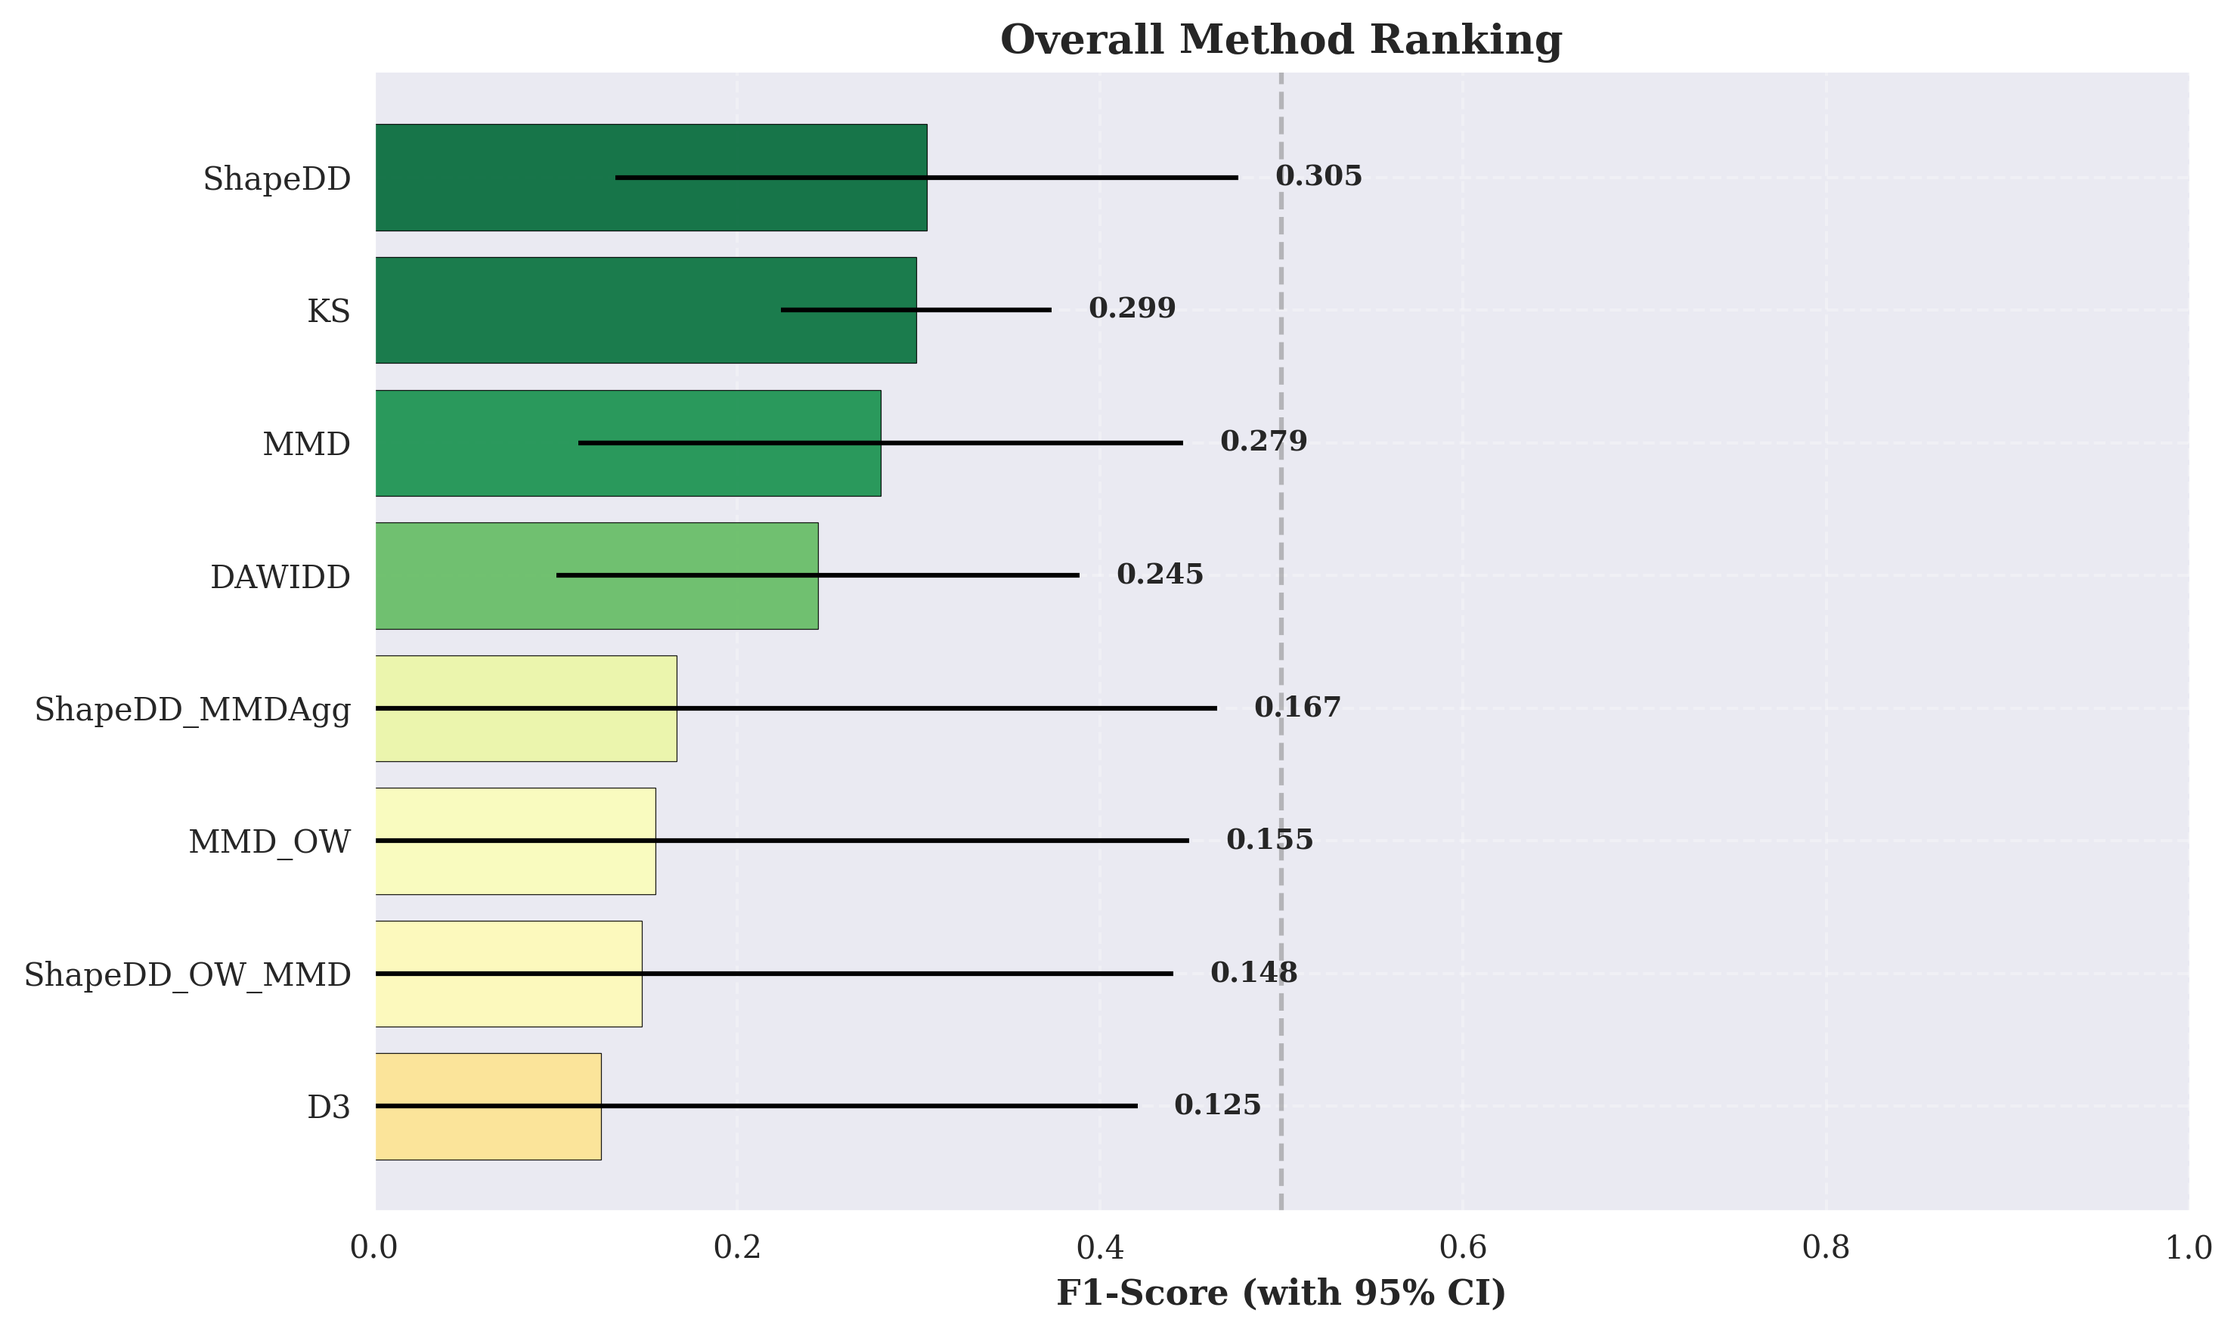
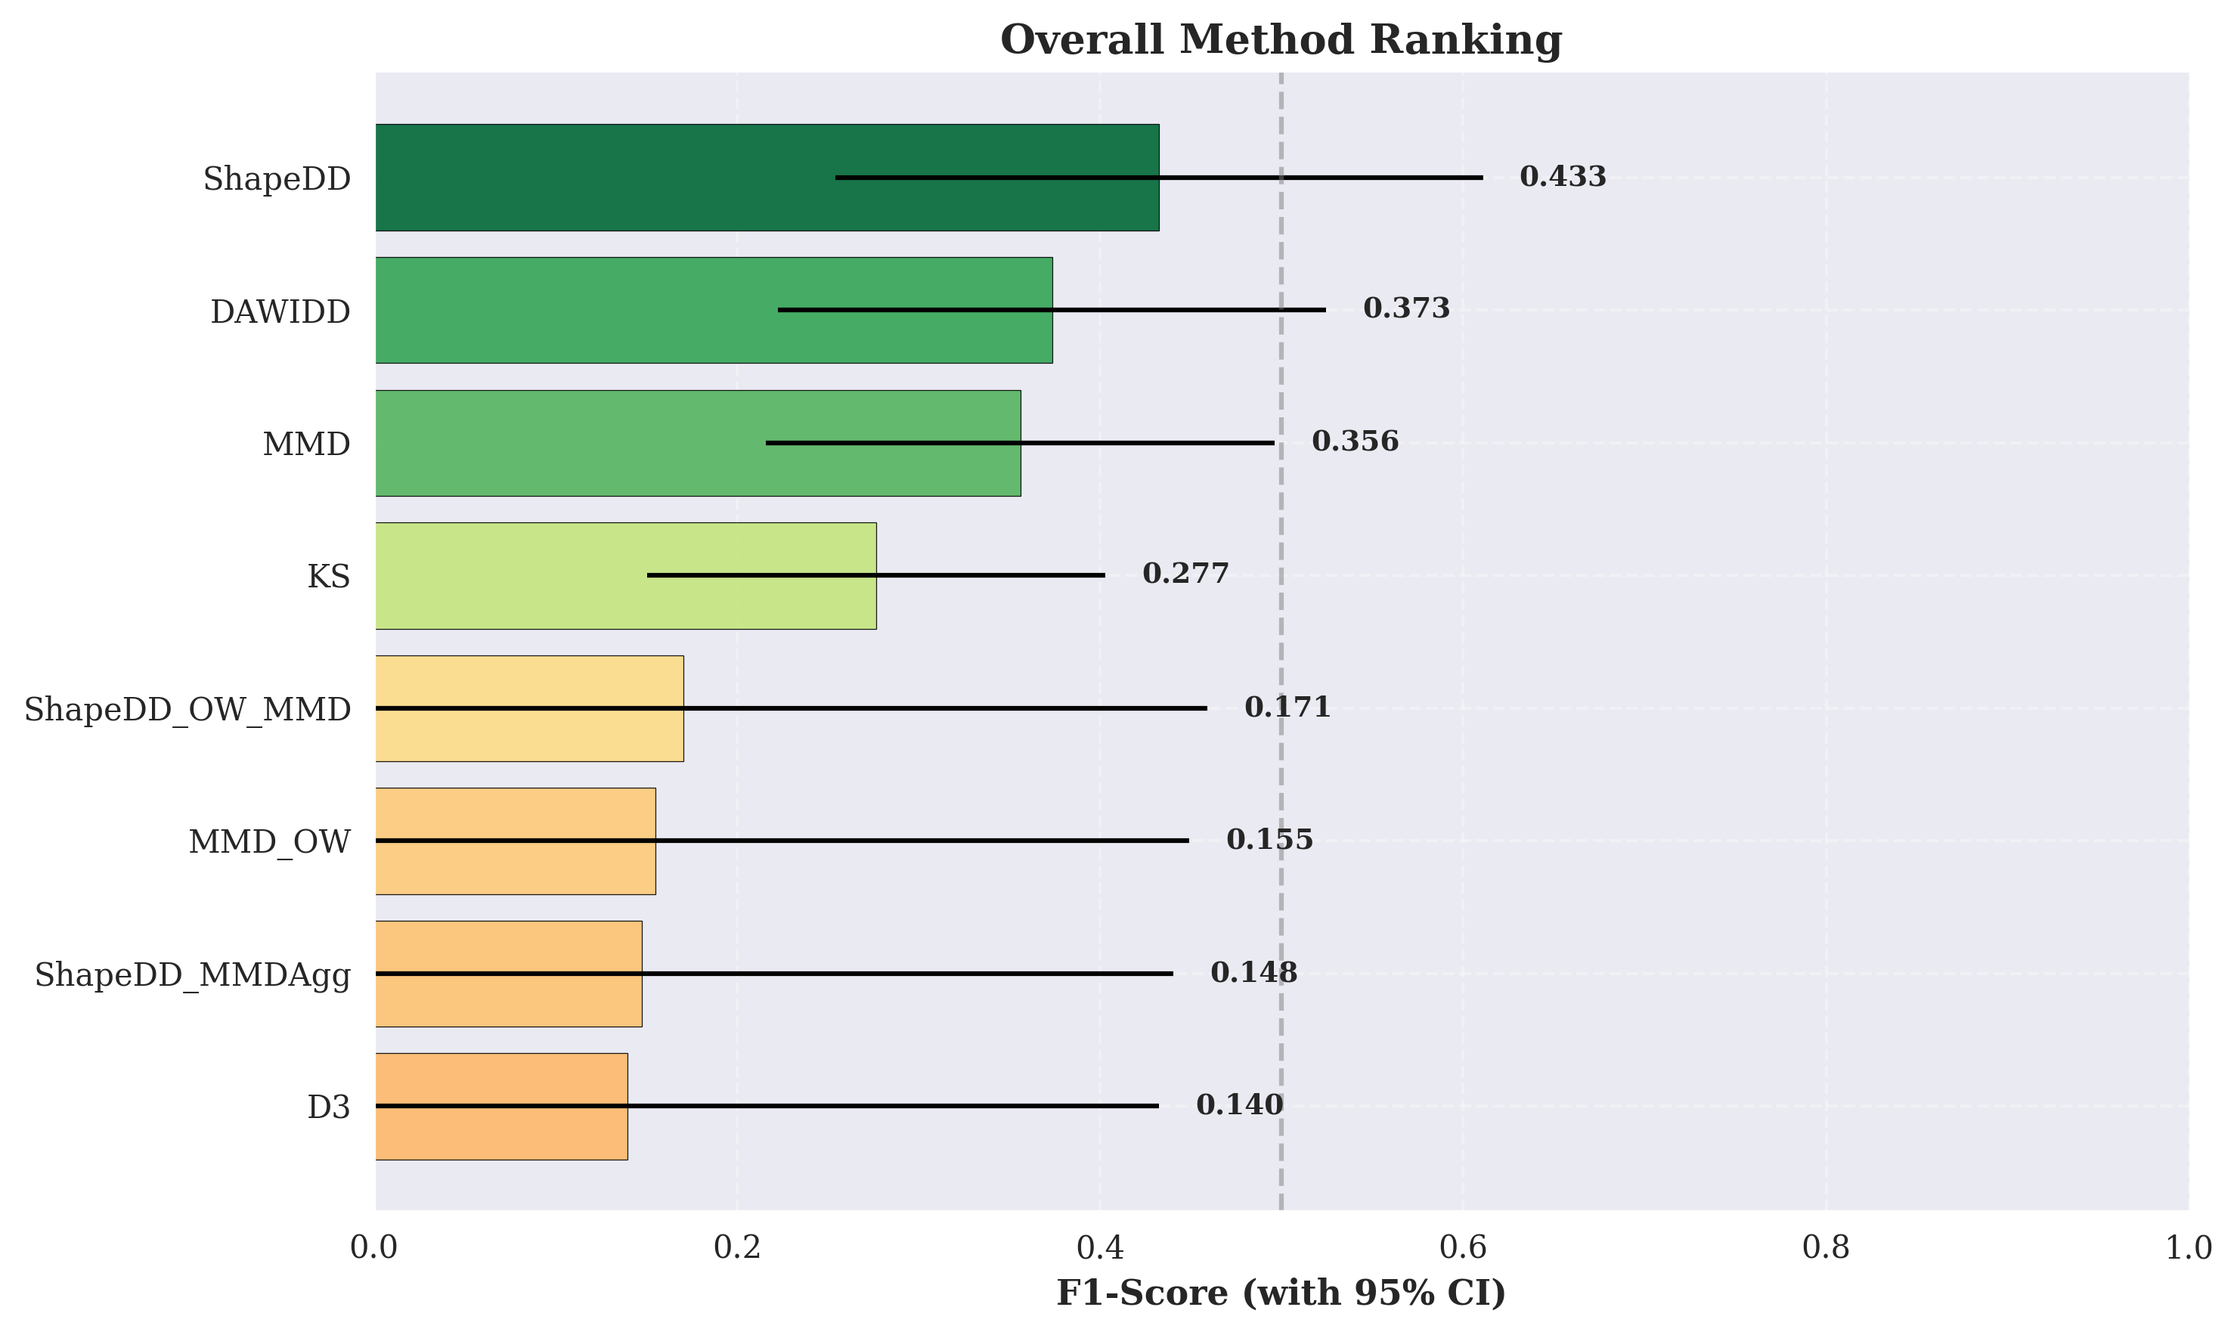
Unified the figure and table output directories to experiments/drift_detection_benchmark/publication_figures/ for consistency

diff --git a/report/latex/chapters/04_experiments_evaluation.tex b/report/latex/chapters/04_experiments_evaluation.tex
@@ -122,7 +122,7 @@ Bảng~\ref{tab:comprehensive_performance} trình bày kết quả trung bình c
 % Source: experiments/drift_detection_benchmark/publication_figures/table_I_comprehensive_performance.tex
 % To regenerate: Run main.py in drift_detection_benchmark, then copy output here
 % =============================================================================
-\input{../../experiments/drift_detection_benchmark/publication_figures/table_I_comprehensive_performance.tex}
+\input{../../../experiments/drift_detection_benchmark/publication_figures/table_I_comprehensive_performance.tex}
 
 % =============================================================================
 % AUTO-GENERATED FIGURE: Overall Method Ranking
@@ -131,7 +131,7 @@ Bảng~\ref{tab:comprehensive_performance} trình bày kết quả trung bình c
 % =============================================================================
 \begin{figure}[h]
 \centering
-\includegraphics[width=0.85\textwidth]{../../experiments/drift_detection_benchmark/publication_figures/figure_1_overall_ranking.png}
+\includegraphics[width=0.85\textwidth]{../../../experiments/drift_detection_benchmark/publication_figures/figure_1_overall_ranking.png}
 \caption{Xếp hạng tổng thể của các phương pháp phát hiện drift dựa trên F1-Score với khoảng tin cậy 95\%. Các phương pháp được sắp xếp từ thấp đến cao.}
 \label{fig:overall_ranking}
 \end{figure}
@@ -142,7 +142,7 @@ Bảng~\ref{tab:comprehensive_performance} trình bày kết quả trung bình c
 % =============================================================================
 \begin{figure}[h]
 \centering
-\includegraphics[width=0.85\textwidth]{../../experiments/drift_detection_benchmark/publication_figures/critical_difference_f1.png}
+\includegraphics[width=0.85\textwidth]{../../../experiments/drift_detection_benchmark/publication_figures/critical_difference_f1.png}
 \caption{Critical Difference diagram sử dụng Nemenyi post-hoc test. Các phương pháp được nối với nhau bằng đường ngang không có sự khác biệt thống kê đáng kể (p \textgreater{} 0.05). CD = Critical Difference tại mức ý nghĩa $\alpha = 0.05$.}
 \label{fig:critical_difference}
 \end{figure}
@@ -165,7 +165,7 @@ Bảng~\ref{tab:comprehensive_performance} trình bày kết quả trung bình c
 % =============================================================================
 \begin{figure}[h]
 \centering
-\includegraphics[width=0.95\textwidth]{../../experiments/drift_detection_benchmark/publication_figures/figure_2_sudden_drift.png}
+\includegraphics[width=0.95\textwidth]{../../../experiments/drift_detection_benchmark/publication_figures/figure_2_sudden_drift.png}
 \caption{Heatmap F1-Score trên các dataset Sudden Drift (SEA, STAGGER, Hyperplane, LED). Giá trị cao hơn (màu xanh lá) biểu thị hiệu suất tốt hơn. Các phương pháp được sắp xếp theo F1-Score trung bình giảm dần.}
 \label{fig:sudden_drift}
 \end{figure}
@@ -176,7 +176,7 @@ Bảng~\ref{tab:comprehensive_performance} trình bày kết quả trung bình c
 % =============================================================================
 \begin{figure}[h]
 \centering
-\includegraphics[width=0.85\textwidth]{../../experiments/drift_detection_benchmark/publication_figures/figure_3_gradual_incremental_drift.png}
+\includegraphics[width=0.85\textwidth]{../../../experiments/drift_detection_benchmark/publication_figures/figure_3_gradual_incremental_drift.png}
 \caption{Heatmap F1-Score trên các dataset Gradual và Incremental Drift (sea\_gradual, rbf\_slow). Đây là các loại drift thách thức hơn cho phương pháp window-based.}
 \label{fig:gradual_incremental_drift}
 \end{figure}
@@ -187,7 +187,7 @@ Bảng~\ref{tab:comprehensive_performance} trình bày kết quả trung bình c
 % =============================================================================
 \begin{figure}[h]
 \centering
-\includegraphics[width=0.95\textwidth]{../../experiments/drift_detection_benchmark/publication_figures/figure_4_realworld_stationary.png}
+\includegraphics[width=0.95\textwidth]{../../../experiments/drift_detection_benchmark/publication_figures/figure_4_realworld_stationary.png}
 \caption{Phân tích Real-world và Stationary datasets. Bên trái: F1-Score trên dữ liệu thực tế (electricity\_sorted). Bên phải: Số lượng False Positives trên dataset không có drift (stagger\_none) - giá trị thấp hơn là tốt hơn.}
 \label{fig:realworld_stationary}
 \end{figure}
@@ -196,7 +196,7 @@ Bảng~\ref{tab:comprehensive_performance} trình bày kết quả trung bình c
 % AUTO-GENERATED TABLE: F1-Score by Dataset
 % Source: experiments/drift_detection_benchmark/publication_figures/table_II_f1_by_dataset.tex
 % =============================================================================
-\input{../../experiments/drift_detection_benchmark/publication_figures/table_II_f1_by_dataset.tex}
+\input{../../../experiments/drift_detection_benchmark/publication_figures/table_II_f1_by_dataset.tex}
 
 \textbf{Phân tích chi tiết:}
 
@@ -265,7 +265,7 @@ Hình~\ref{fig:speed_accuracy_tradeoff} cho thấy trade-off giữa tốc độ 
 % =============================================================================
 \begin{figure}[h]
 \centering
-\includegraphics[width=0.85\textwidth]{../../experiments/drift_detection_benchmark/publication_figures/figure_5_speed_accuracy.png}
+\includegraphics[width=0.85\textwidth]{../../../experiments/drift_detection_benchmark/publication_figures/figure_5_speed_accuracy.png}
 \caption{Đường biên Pareto cho trade-off giữa tốc độ và độ chính xác. Các phương pháp nằm gần góc trên bên trái (F1 cao, runtime thấp) là tối ưu. Màu sắc: xám = baseline, xanh dương = ShapeDD, xanh lá = OW-MMD. Đường đứt nét biểu thị Pareto frontier.}
 \label{fig:speed_accuracy_tradeoff}
 \end{figure}
@@ -276,7 +276,7 @@ Hình~\ref{fig:speed_accuracy_tradeoff} cho thấy trade-off giữa tốc độ 
 % =============================================================================
 \begin{figure}[h]
 \centering
-\includegraphics[width=0.85\textwidth]{../../experiments/drift_detection_benchmark/publication_figures/figure_6_runtime.png}
+\includegraphics[width=0.85\textwidth]{../../../experiments/drift_detection_benchmark/publication_figures/figure_6_runtime.png}
 \caption{So sánh thời gian thực thi của các phương pháp phát hiện drift. Thời gian được đo trên stream 10,000 samples.}
 \label{fig:runtime_comparison}
 \end{figure}
@@ -305,7 +305,7 @@ Hình~\ref{fig:detection_timeline} minh họa timeline phát hiện drift của 
 % =============================================================================
 \begin{figure}[h]
 \centering
-\includegraphics[width=0.95\textwidth]{../../experiments/drift_detection_benchmark/publication_figures/figure_7_timeline.png}
+\includegraphics[width=0.95\textwidth]{../../../experiments/drift_detection_benchmark/publication_figures/figure_7_timeline.png}
 \caption{Timeline phát hiện drift trên dataset đại diện. Đường đứt nét đỏ biểu thị vị trí drift thực sự. Các điểm tròn biểu thị thời điểm phát hiện của mỗi phương pháp với F1-Score tương ứng.}
 \label{fig:detection_timeline}
 \end{figure}

diff --git a/experiments/drift_detection_benchmark/publication_figures/table_II_f1_by_dataset.tex b/experiments/drift_detection_benchmark/publication_figures/table_II_f1_by_dataset.tex
@@ -1,19 +1,19 @@
 \begin{table}[htbp]
-\caption{F1-Score by method and dataset. Best scores per dataset are highlighted.}
+\caption{F1-Score by method and dataset. Best scores per column are shown in \textbf{bold}. Methods ranked by mean F1-Score.}
 \label{tab:f1_by_dataset}
-\begin{tabular}{lcccccccc}
+\begin{tabular}{clccccccccc}
 \toprule
-Dataset & electricity_sorted & hyperplane & rbf_slow & rbfblips & sea_gradual & stagger & standard_sea & Mean \\
-Method &  &  &  &  &  &  &  &  \\
+Dataset & Rank & electricity_sorted & hyperplane & led_abrupt & rbf_slow & rbfblips & sea_gradual & stagger & standard_sea & Mean \\
+Method &  &  &  &  &  &  &  &  &  &  \\
 \midrule
-KS & 0.417000 & 0.555000 & 0.828000 & 0.842000 & 0.779000 & 0.791000 & 0.593000 & 0.686000 \\
-MMD & 0.556000 & 0.232000 & 0.334000 & 0.818000 & 0.694000 & 0.817000 & 0.341000 & 0.542000 \\
-DAWIDD & 0.500000 & 0.173000 & 0.330000 & 0.804000 & 0.664000 & 0.767000 & 0.270000 & 0.501000 \\
-ShapeDD & 0.600000 & 0.121000 & 0.201000 & 0.479000 & 0.485000 & 0.757000 & 0.193000 & 0.405000 \\
-ShapeDD_OW_MMD & 0.413000 & 0.204000 & 0.206000 & 0.462000 & 0.436000 & 0.779000 & 0.209000 & 0.387000 \\
-ShapeDD_SNR_Adaptive & 0.333000 & 0.036000 & 0.055000 & 0.319000 & 0.343000 & 0.548000 & 0.018000 & 0.236000 \\
-MMD_OW & 0.400000 & 0.000000 & 0.000000 & 0.000000 & 0.000000 & 0.954000 & 0.000000 & 0.193000 \\
-D3 & 0.000000 & 0.000000 & 0.000000 & 0.000000 & 0.000000 & 0.000000 & 0.000000 & 0.000000 \\
+ShapeDD & 1 & \textbf{0.244} & 0.250 & 0.286 & \textbf{0.444} & 0.455 & 0.444 & 0.909 & \textbf{0.429} & \textbf{0.433} \\
+DAWIDD & 2 & 0.143 & 0.286 & 0.222 & 0.421 & \textbf{0.476} & \textbf{0.500} & 0.690 & 0.250 & 0.374 \\
+MMD & 3 & 0.156 & \textbf{0.400} & \textbf{0.353} & 0.300 & 0.455 & 0.375 & 0.667 & 0.143 & 0.356 \\
+KS & 4 & 0.096 & 0.327 & 0.000 & 0.295 & 0.290 & 0.389 & 0.417 & 0.400 & 0.277 \\
+ShapeDD_OW_MMD & 5 & 0.182 & 0.000 & 0.182 & 0.000 & 0.000 & 0.000 & \textbf{1.000} & 0.000 & 0.170 \\
+MMD_OW & 6 & 0.240 & 0.000 & 0.000 & 0.000 & 0.000 & 0.000 & \textbf{1.000} & 0.000 & 0.155 \\
+ShapeDD_MMDAgg & 7 & 0.000 & 0.000 & 0.000 & 0.000 & 0.182 & 0.000 & \textbf{1.000} & 0.000 & 0.148 \\
+D3 & 8 & 0.118 & 0.000 & 0.000 & 0.000 & 0.000 & 0.000 & \textbf{1.000} & 0.000 & 0.140 \\
 \bottomrule
 \end{tabular}
 \end{table}

diff --git a/experiments/drift_detection_benchmark/main.py b/experiments/drift_detection_benchmark/main.py
@@ -20,7 +20,7 @@ The benchmark includes:
 5. Publication-quality visualizations
 6. LaTeX table export for thesis
 
-Results are saved to ./publication_figures/
+Results are saved to ./experiments/drift_detection_benchmark/publication_figures/
 """
 
 import gc
@@ -113,7 +113,7 @@ def run_benchmark():
     
     # Reset and get fresh logger
     reset_logger()
-    logger = get_logger(output_dir="./publication_figures", log_to_file=True, verbose=True)
+    logger = get_logger(output_dir="./experiments/drift_detection_benchmark/publication_figures", log_to_file=True, verbose=True)
     
     enabled_datasets = get_enabled_datasets()
 
@@ -286,7 +286,7 @@ def main():
     df_results = pd.DataFrame(all_results)
     statistical_report = generate_statistical_report(
         df_results,
-        output_dir='./publication_figures'
+        output_dir='./experiments/drift_detection_benchmark/publication_figures'
     )
 
     # ========================================================================
@@ -295,7 +295,7 @@ def main():
     print("\n" + "="*80)
     print("GENERATING VISUALIZATIONS")
     print("="*80)
-    generate_all_figures(all_results)
+    generate_all_figures(all_results, output_dir='./experiments/drift_detection_benchmark/publication_figures')
 
     # ========================================================================
     # EXPORT LATEX TABLES
@@ -303,7 +303,7 @@ def main():
     print("\n" + "="*80)
     print("EXPORTING LATEX TABLES")
     print("="*80)
-    export_all_tables(all_results, STREAM_SIZE)
+    export_all_tables(all_results, STREAM_SIZE, output_dir='./experiments/drift_detection_benchmark/publication_figures')
 
     # ========================================================================
     # FINAL SUMMARY
@@ -312,7 +312,7 @@ def main():
     print("BENCHMARK COMPLETE!")
     print("="*80)
     print(f"  Total experiments: {len(all_results)}")
-    print(f"  Results saved to: ./publication_figures/")
+    print(f"  Results saved to: ./experiments/drift_detection_benchmark/publication_figures/")
     print("="*80 + "\n")
 
 

diff --git a/experiments/drift_detection_benchmark/publication_figures/table_I_comprehensive_performance.tex b/experiments/drift_detection_benchmark/publication_figures/table_I_comprehensive_performance.tex
@@ -1,18 +1,18 @@
 \begin{table}[htbp]
-\caption{Comprehensive drift detection performance. F1 is reported as mean $\pm$ standard deviation across all datasets. MTTD = Mean Time To Detection (samples). TP/FP/FN = cumulative counts.}
+\caption{Comprehensive drift detection performance across all datasets. F1 is reported as mean $\pm$ standard deviation. Best values per metric are shown in \textbf{bold}. MTTD = Mean Time To Detection (samples, lower is better). TP/FP/FN = cumulative counts across all experiments.}
 \label{tab:comprehensive_performance}
-\begin{tabular}{lccccccc}
+\begin{tabular}{clccccccc}
 \toprule
-Method & F1 ($\mu \pm \sigma$) & Precision & Recall & MTTD & TP & FP & FN \\
+Rank & Method & F1 ($\mu \pm \sigma$) & Precision & Recall & MTTD & TP & FP & FN \\
 \midrule
-KS & $0.686 \pm 0.179$ & 0.769 & 0.766 & 45 & 486 & 256 & 164 \\
-MMD & $0.542 \pm 0.258$ & 0.808 & 0.553 & 47 & 337 & 134 & 313 \\
-DAWIDD & $0.501 \pm 0.270$ & 0.717 & 0.540 & 44 & 328 & 178 & 322 \\
-ShapeDD & $0.405 \pm 0.259$ & 0.786 & 0.311 & 48 & 188 & 20 & 462 \\
-ShapeDD_OW_MMD & $0.387 \pm 0.234$ & 0.847 & 0.289 & 51 & 182 & 27 & 468 \\
-ShapeDD_SNR_Adaptive & $0.236 \pm 0.214$ & 0.643 & 0.151 & 24 & 96 & 0 & 554 \\
-MMD_OW & $0.193 \pm 0.342$ & 0.188 & 0.200 & 25 & 120 & 40 & 530 \\
-D3 & $0.000 \pm 0.000$ & 0.000 & 0.000 & 0 & 0 & 0 & 650 \\
+1 & ShapeDD & $\mathbf{0.433 \pm 0.213}$ & \textbf{0.496} & 0.500 & 63.000 & 35 & 55 & 40 \\
+2 & DAWIDD & $0.373 \pm 0.180$ & 0.369 & 0.537 & 67.000 & 38 & 106 & 37 \\
+3 & MMD & $0.356 \pm 0.168$ & 0.357 & 0.512 & 58.000 & 36 & 103 & 39 \\
+4 & KS & $0.277 \pm 0.151$ & 0.179 & \textbf{0.762} & 45.000 & 56 & 283 & 19 \\
+5 & ShapeDD_OW_MMD & $0.171 \pm 0.345$ & 0.265 & 0.188 & 73.000 & 13 & 15 & 62 \\
+6 & MMD_OW & $0.155 \pm 0.352$ & 0.144 & 0.200 & 43.000 & 13 & 18 & 62 \\
+7 & ShapeDD_MMDAgg & $0.148 \pm 0.350$ & 0.250 & 0.138 & \textbf{6.000} & 11 & 2 & 64 \\
+8 & D3 & $0.140 \pm 0.350$ & 0.135 & 0.150 & 27.000 & 11 & 11 & 64 \\
 \bottomrule
 \end{tabular}
 \end{table}

diff --git a/experiments/drift_detection_benchmark/publication_figures/table_III_runtime_stats.tex b/experiments/drift_detection_benchmark/publication_figures/table_III_runtime_stats.tex
@@ -1,0 +1,19 @@
+\begin{table}[htbp]
+\caption{Runtime statistics by detection method. Throughput = samples processed per second.}
+\label{tab:runtime_stats}
+\begin{tabular}{lccccc}
+\toprule
+ & Mean (s) & Std (s) & Min (s) & Max (s) & Throughput (samples/s) \\
+Method &  &  &  &  &  \\
+\midrule
+MMD_OW & 0.218900 & 0.017800 & 0.186600 & 0.244200 & 45683 \\
+KS & 0.350600 & 0.115900 & 0.190200 & 0.497400 & 28523 \\
+D3 & 0.372400 & 0.033300 & 0.328700 & 0.438900 & 26853 \\
+MMD & 1.176300 & 0.375200 & 0.725900 & 1.834600 & 8501 \\
+ShapeDD_OW_MMD & 2.927200 & 0.517500 & 2.158000 & 3.589000 & 3416 \\
+DAWIDD & 2.980700 & 0.928700 & 2.440900 & 5.420300 & 3355 \\
+ShapeDD & 4.166000 & 1.525900 & 2.311900 & 7.216600 & 2400 \\
+ShapeDD_MMDAgg & 7.189900 & 1.131500 & 4.697800 & 8.057600 & 1391 \\
+\bottomrule
+\end{tabular}
+\end{table}

diff --git a/experiments/drift_detection_benchmark/config.py b/experiments/drift_detection_benchmark/config.py
@@ -37,7 +37,7 @@ RANDOM_SEED = 42  # Fixed seed for reproducibility (deprecated - use RANDOM_SEED
 # ============================================================================
 # Statistical validation requires multiple runs with different random seeds
 # Benchmark standard: 30-500 runs (we use 30 for 80% statistical power)
-N_RUNS = 1  # Number of independent runs (minimum for statistical validity)
+N_RUNS = 30  # Number of independent runs (minimum for statistical validity)
 RANDOM_SEEDS = [42 + i * 137 for i in range(N_RUNS)]  # Prime spacing avoids correlation
 
 # ============================================================================
